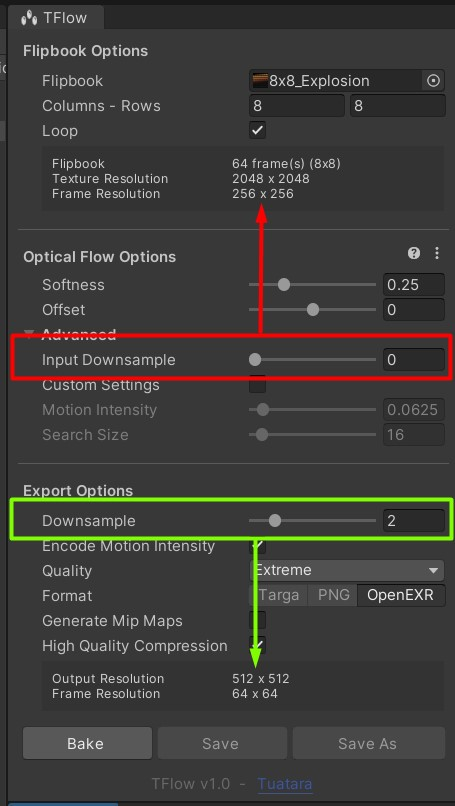
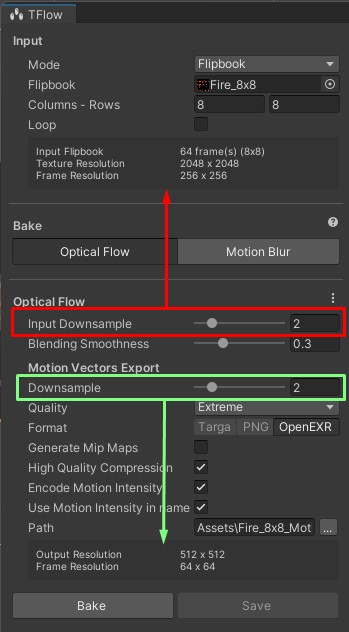
Doc changes

diff --git a/README.md b/README.md
@@ -1,5 +1,5 @@
 [![Generic badge](https://img.shields.io/badge/Demo-blue.svg)](https://tflow-demo.tuataragames.com/)
-[![Generic badge](https://img.shields.io/badge/Version-1.1.1-green.svg)](Changelog.md)
+[![Generic badge](https://img.shields.io/badge/Version-1.2.0-green.svg)](Changelog.md)
 [![Generic badge](https://img.shields.io/badge/Unity_asset_store-gray.svg)](https://u3d.as/2F5t)
 
 TFlow is a motion vector and motion blur generator that helps increase the utility and quality of your flipbooks. With provided shader examples it adapts to many rendering pipelines.
@@ -8,8 +8,12 @@ TFlow is a motion vector and motion blur generator that helps increase the utili
 
 # How does it work?
 
-1. Use our baking tool to generate motion vectors and/or motion blur for your flipbook.
+**Optical Flow**
+1. Use our baking tool to generate motion vectors for your flipbook.
 2. Use the motion vectors texture and the flipbook at runtime to get optical flow blending.
+
+**Motion Blur**
+1. Bake motion blur directly on your flipbook using our tool.
 
 # Get TFlow
 
@@ -62,19 +66,20 @@ We also provide integration examples for Universal RP, High Definition RP, Shade
 
 </details>
 <details>
-<summary><strong>Baking Motion Vectors</strong></summary>
+<summary><strong>Baking Optical Flow Motion Vectors</strong></summary>
 
 - Open the tool `Window > Tuatara > TFlow` or right click on your flipbook `Tuatara > Open TFlow`.
 - Drop your flipbook in the texture field and fill in the size
 - Check *Loop* if your sequence is supposed to loop
+- Choose *Optical Flow* in *Baking*
+- Play with the *Blending Smoothness* and the timeline to preview blending
 
 > 💡 The column and row count will be filled automatically if the size is included in the file name like "*COLUMSxROWS*".
 
+- Press *Bake* and *Save*. The motion vectors texture should appear next to your flipbook. You can then use it in your shaders to produce realtime smooth blending, check the *Blendin* section that matches your rendering pipeline down below.
+
 ![baking_01](img/unity_baking_01.jpg)
 
-- Press *Bake* and *Save As*.
-
-For more details, check the [Advanced](#advanced) chapter.
 </details>
 
 <details>
@@ -82,17 +87,16 @@ For more details, check the [Advanced](#advanced) chapter.
 
 You can bake motion blur on your flipbooks using TFlow.
 
-![baking_mb_01](img/motion_blur_baking.jpg)
-
-- Check *Apply motion blur*.
-- Choose the *Motion blur* view mode in the canvas.
+- Choose *Motion Blur* under *Baking*
+- Play with the settings
 - Press *Bake* and *Save*. The motion blur flipbook will be saved next to the input flipbook.
 
-> 💡 Our motion blur algorithm is using the motion vectors, changing the *Optical Flow* parameters will also change the motion blur look.
+![baking_mb_01](img/motion_blur_baking.jpg)
+
 </details>
 
 <details>
-  <summary><strong>Universal RP</strong></summary>
+  <summary><strong>Universal RP Blending</strong></summary>
 
 Extract **Universal RP** package located in `TFlow/Runtime/Examples` folder.
 Open **Universal RP** scene located in `TFlow/Runtime/Examples/Universal RP` folder.
@@ -131,7 +135,7 @@ For more informations about these functions, see **VFX Graph** section.
 </details>
 
 <details>
-  <summary><strong>High Definition RP</strong></summary>
+  <summary><strong>High Definition RP Blending</strong></summary>
   
 Extract **High Definition RP** package located in `TFlow/Runtime/Examples` folder.
 Open **High Definition RP** scene located in `TFlow/Runtime/Examples/High Definition RP` folder.
@@ -164,7 +168,7 @@ For more informations about those functions, see **VFX Graph** section.
 </details>
 
 <details>
-  <summary><strong>Amplify Shader Editor</strong></summary>
+  <summary><strong>Amplify Shader Editor Blending</strong></summary>
   
 Extract **AmplifyShaderEditor** package located in `TFlow/Runtime/Examples` folder.
 Open **AmplifyShaderEditor** scene located in `TFlow/Runtime/Examples/AmplifyShaderEditor` folder.
@@ -203,7 +207,7 @@ The example shaders mainly use these two functions to compute optical flow blend
 </details>
 
 <details>
-  <summary><strong>Shader Functions</strong></summary>
+  <summary><strong>Shader Functions Blending</strong></summary>
   
 This is the core of the package. With these function, you'll be able to handle optical flow in any type of shader or pipeline.
 You can find all the functions in the **OpticalFlowCommon.hlsl** file located in the `TFlow/Runtime/Shaders` folder.
@@ -240,7 +244,7 @@ Here is some pseudo code to use these functions.
 </details>
 
 <details>
-  <summary><strong>VFX Graph</strong></summary>
+  <summary><strong>VFX Graph Blending</strong></summary>
   
 We provide simple VFX Graph examples in the **High Definition RP** and **Universal RP** packages that are using default shader output nodes.
 To enable optical flow blending behaviors, you need to set **Uv Mode** as **Flipbook Motion Blend** and provide the computed motion vector map. You can set the **The Motion Vector Scale** manually or get its value using the texture just like in the examples.
@@ -283,90 +287,18 @@ Otherwise, the last frame fades out.
 
 - Input Downsample (red)
 
-  Increase this value to reduce the input size before generating motion vectors. This will increase the processing speed and reduce the overall quality. 
-  We recommend increasing this value only if the input size is higher than 2048x2048.
+  Increase this value to reduce the input size before generating motion vectors. Higher values yield smoother and faster results but reduce fidelity.
+
+  When baking is slow, increase this value. Baking time will slow down as the input texture size gets bigger.
 
 - Output Downsample (green)
 
   Increase this value as much as possible to get the smallest motion vectors texture and thus save runtime performance.
   Don't increase it if the blending looks worse.
-  Changing this doesn't affect the processing speed.
+  Changing this doesn't affect the baking speed.
 
 </details>
 
-<details>
-  <summary><strong>Baking options</strong></summary>
-
-![](img/optical_flow_options.jpg)
-
-- **Softness** 
-
-  Use a small value to detect fine detail/slow motion and a larger value for fast motion. 
-  Using a larger value slows down the baking process.
-  This setting is a simplification of *Search size* in *Advanced* settings. 
-
-- **Offset**
-
-  Play with this value if the blending doesn't look correct.
-  Most of the time, there is no need to change it and you can leave it at 0.
-  This setting will offset *Motion intensity* in *Advanced* settings. 
-  It doesn't affect the motion vectors, only the blending.
-
-- **Input downsample**
-
-  See **Advanced > Downsampling**.
-
-- **Custom settings**
-
-  When enabled, you get full control over *Motion Intensity* and *Search Size*. These settings are not designed to be used manually.
-
-- **Motion intensity**
-
-  Controls the motion vectors intensity in the blending process.
-  With a value of 0, you can preview what the blending looks like without motion vectors, just a regular blending.
-  This setting doesn't affect the motion vectors, only the blending.
-
-- **Search size**
-
-  TFlow uses the *Farneback Optical Flow* algorithm to generate motion vectors and the *Search Size* is the most important setting.
-  Use a small value to detect fine detail/slow motion and a larger value for fast motion. 
-  Using a larger value slows down the baking process.
-  It's in pixel space.
-
-</details>
-
-<details>
-  <summary><strong>Export options</strong></summary>
-
-![](img/export.jpg)
-
-- **Downsample**
-
-  See **Advanced > Downsampling** .
-
-- **Encode Motion Intensity**
-
-  Save the motion intensity value (from *Optical flow options > Advanced*) into the blue and alpha channels.
-  This value is required at runtime for blending. See **Advanced > Motion intensity**.
-
-- **Quality**
-
-  Save the texture as 32bit per channel float [0, 1] or 8bit per channel [0, 255].
-  Always choose Extreme quality unless you have strong size/performance constraints (such as Android platform). 
-  
-  Using Extreme on a platform that doesn't support float textures will not work, blending will be incorrect.  
-
-- **Generate Mip Maps**
-
-  Enable this to generate mip maps. 
-  You can always change this afterwards in the texture import settings.
-
-- **High quality compression**
-
-  Always enable this if your platform supports it, it's non destructive compression. 
-  You can always change this afterwards in the texture import settings.
-
-</details>
 
 # Technical support
 
@@ -386,5 +318,6 @@ Don't hesitate to send us feature request as well.
 You can access the documentation of previous versions. 
 Checkout the [changelog](Changelog.md) for more details.
 
+- [v1.2.0](https://github.com/Tuatara-VFX/TFlow/tree/v1.2.0)
 - [v1.1.0](https://github.com/Tuatara-VFX/TFlow/tree/v1.1.0)
 - [v1.0.0](https://github.com/Tuatara-VFX/TFlow/tree/v1.0.0)

diff --git a/Changelog.md b/Changelog.md
@@ -2,11 +2,15 @@
 
 ## Waiting to be released
 
-## [1.2.0] - 2022-02-21
+## [1.2.0] - 2022-02-24
 
 ### Added
 
 - Motion blur flipbook baking
+
+### Changed
+
+- User interface refactor
 
 ### Fixed
 
@@ -36,6 +40,7 @@
 
 Initial tool release.
 
+[1.2.0]: https://github.com/Tuatara-VFX/TFlow/tree/v1.2.0
 [1.1.1]: https://github.com/Tuatara-VFX/TFlow/tree/v1.1.1
 [1.1.0]: https://github.com/Tuatara-VFX/TFlow/tree/v1.1.0
 [1.0.0]: https://github.com/Tuatara-VFX/TFlow/tree/v1.0.0
